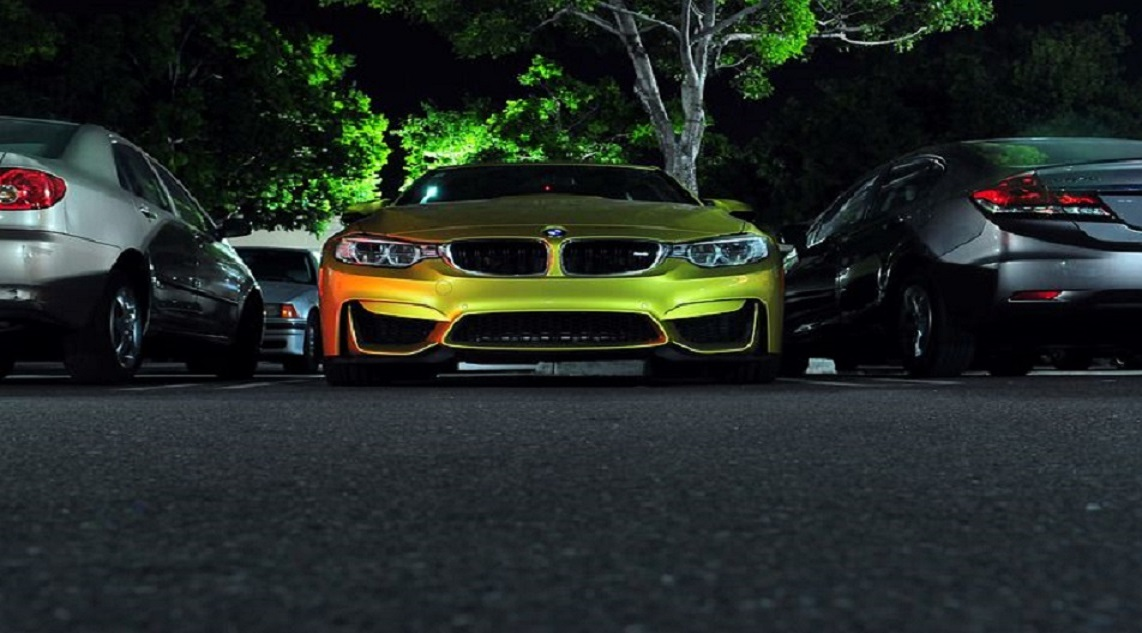
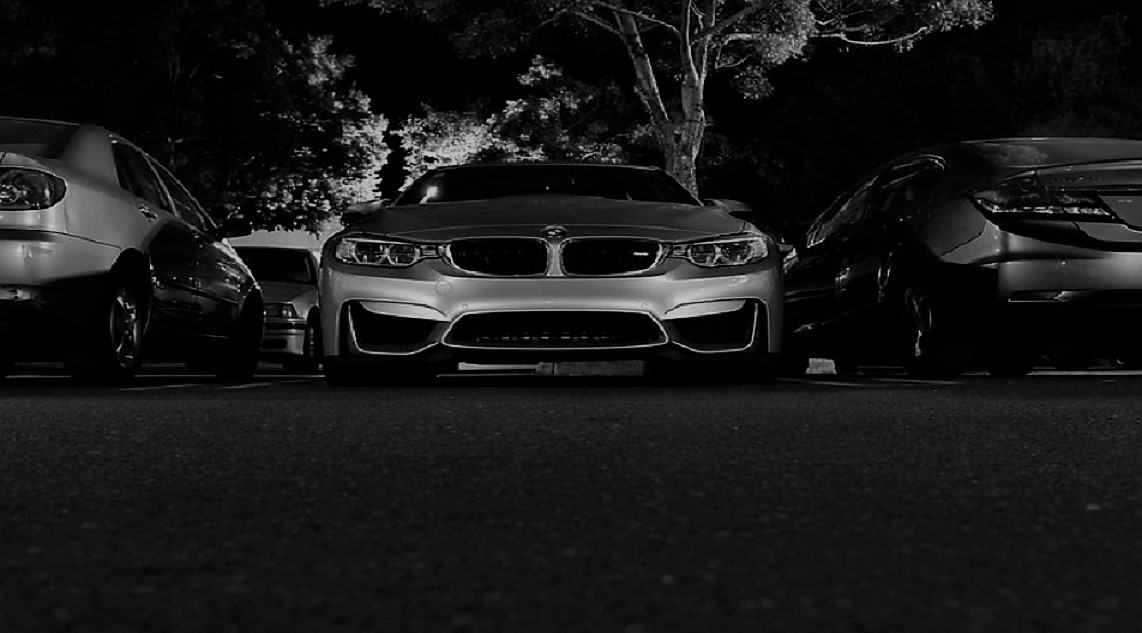
Textrutor med separata positioner och bakgrundbilder

diff --git a/ovrigatjanster.html b/ovrigatjanster.html
@@ -5,8 +5,6 @@
 	<link href="https://fonts.googleapis.com/css?family=Oswald:500&display=swap" rel="stylesheet"> 
 	<link href="https://fonts.googleapis.com/css?family=Noto+Sans+JP&display=swap" rel="stylesheet"> 
 	<link href="https://fonts.googleapis.com/css?family=Pacifico&display=swap" rel="stylesheet"> 
-
-
 	</head>
 <!-- kommentar för github (public) lagt till lite mer-->
 <body>
@@ -20,14 +18,27 @@
         <a href="hitta.html">Hitta till oss</a>
         <a href="kontakt.html">Kontakt</a>
         </div>
+        <div class="midcol">
 			<style type="text/css">
 			.midcol {
-   					 background-image: url('service.jpg');
+   					background-image: url('service.jpg');
 					}
 			</style>
-			<div class="midcol"><br><br>
-						<div class="innehall"><br><br>
-						och här blir då texten
+			<br>
+			<br>
+
+						<div class="innehall">
+			<style type="text/css">
+			.innehall 	{
+						margin-left:5%; 
+						margin-right: 65%;   					
+						}
+			</style>
+						<h2>&ouml;vriga tj&auml;nster</h2>
+						<p>
+							F&ouml;r de som &ouml;nskar erbjuder vi &auml;ven bilservice under parkeringstiden 
+							f&ouml;r. Vi tar hand om allt: Tar bilen till licensierad serviceverkstad och ser till att r&auml;tt service utf&ouml;rs och att en uppdaterad servicebok samt protokoll ligger p&aring; passagerars&auml;tet innan parkeringstiden &auml;r &ouml;ver. <br><br>
+							Vi kan ocks&aring; erbjuda biltv&auml;tt och/eller polering under parkeringstiden. 
 
 
   						</div>
@@ -39,8 +50,7 @@
 
 				
 				<br><br>
-         	</div>
-        </div>
+         
 		
 		<div class="footer"><br>&nbsp;&nbsp;&nbsp;&copy;&nbsp;Andreas Svedstedt 2019</div>
 </body>

diff --git a/bokaparkering.html b/bokaparkering.html
@@ -20,15 +20,23 @@
         <a href="hitta.html">Hitta till oss</a>
         <a href="kontakt.html">Kontakt</a>
         </div>
+			        		<div class = "midcol">
 			<style type="text/css">
 			.midcol {
-   					 background-image: url('Car.jpg');
+   					 background-image: url('svartvita.jpg');
 					}
 			</style>
-			<div class="midcol"><br><br>
-						<div class="innehall"><br><br>
-						och här blir då texten
-
+			<br><br>
+						<div class="innehall">
+							<style type="text/css">
+							.innehall 	{
+										margin-left:10%; 
+										margin-right: 60%;   					
+										}
+							</style>
+							<h2>Rubrik</h2>
+						<p>och h&auml;r blir d&aring; texten
+						</p>	
 
   						</div>
 			</div>
@@ -39,17 +47,8 @@
 
 				
 				<br><br>
-         	</div>
-        </div>
-		
 		<div class="footer"><br>&nbsp;&nbsp;&nbsp;&copy;&nbsp;Andreas Svedstedt 2019</div>
 </body>
-
-
-<!-- Ny kommentar -->
-
-
-
 
 
 </html>

diff --git a/index.html b/index.html
@@ -20,15 +20,23 @@
         <a href="hitta.html">Hitta till oss</a>
         <a href="kontakt.html">Kontakt</a>
         </div>
+		<div class = "midcol">
 			<style type="text/css">
 			.midcol {
-   					 background-image: url('tjejem.jpg');
+   					 background-image: url('svartvita.jpg');
 					}
 			</style>
-			<div class="midcol"><br><br>
-						<div class="innehall"><br><br>
-						och här blir då texten
-
+			<br><br>
+						<div class="innehall">
+							<style type="text/css">
+							.innehall 	{
+										margin-left:10%; 
+										margin-right: 60%;   					
+										}
+							</style>
+							<h2>Rubrik</h2>
+						<p>och h&auml;r blir d&aring; texten
+						</p>	
 
   						</div>
 			</div>
@@ -39,9 +47,6 @@
 
 				
 				<br><br>
-         	</div>
-        </div>
-		
 		<div class="footer"><br>&nbsp;&nbsp;&nbsp;&copy;&nbsp;Andreas Svedstedt 2019</div>
 </body>
 

diff --git a/stylesheet.css b/stylesheet.css
@@ -41,8 +41,7 @@
 
 .innehall
 	{
-	margin-left:20%;background-color: #d6d1c2; 
-	margin-right: 50%;
+	background-color: #d6d1c2;
 	box-shadow: 5 10px 15px 0 rgba(0, 0, 0, 0.2), 0 6px 20px 0 rgba(0, 0, 0, 0.19);
 	padding:1em;
 	}
@@ -62,5 +61,12 @@ a:hover
 	{
 	color: #2d00b3;
 	font-family: 'Oswald';
-    font-size: 20px;
+    font-size: 15px;
+	}
+
+	h2 
+	{
+	color: #2d00b3;
+	font-family: 'Oswald';
+    font-size: 17px;
 	}
